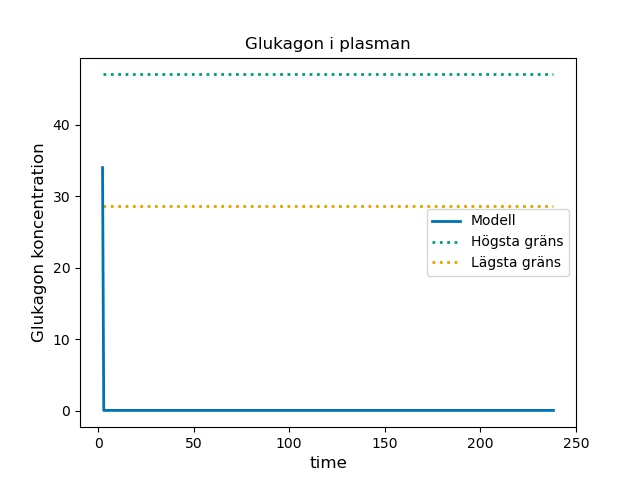
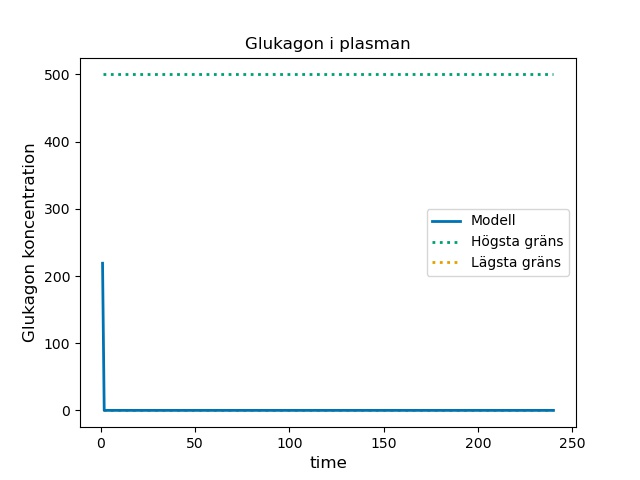
changes

diff --git a/optimering/plot_open_loop.py b/optimering/plot_open_loop.py
@@ -8,14 +8,14 @@ import scipy.integrate as integrate
 cb_palette1 = ["#999999", "#E69F00", "#56B4E9", "#009E73", "#F0E442", "#0072B2", "#D55E00", "#CC79A7"]
 
 # Hämta data
-data_G = pd.read_csv ('data_horses\Glukos_new_FFaraber.csv', sep=';')
-data_I = pd.read_csv ('data_horses\insulin_new_FFaraber.csv', sep=';')
-data_G = data_G.sort_values(by = ['tid'])
-data_I = data_I.sort_values(by = ['tid'])
+data_G = pd.read_csv ('data_horses\glukos_FF_träning.csv', sep=';')
+data_I = pd.read_csv ('data_horses\insulin_FF_träning.csv', sep=';')
+data_G = data_G.sort_values(by = ['time'])
+data_I = data_I.sort_values(by = ['time'])
 
 # Tidsvektorer
-tG_vec = data_G['tid'].values
-tI_vec = data_I['tid'].values
+tG_vec = data_G['time'].values
+tI_vec = data_I['time'].values
 
 time_span_G = [tG_vec[0], tG_vec[-1]]
 time_span_I = [tI_vec[0], tI_vec[-1]]
@@ -53,7 +53,7 @@ def open_loop(t,x,b):
     return [dG, dI, dE, dC, dM, dH] 
 
 # Inital values for concentrations and optimal values for parameters 1 start guess
-x0 = [5, 60, 34, 3, 2.5, 200]   
+x0 = [29, 67, 219, 19, 16, 1288]   
 b = [1.65196917, 1.43044967, 2.19742316e+04, 5.59792273e+01, 2.84072466e+02, 6.46691412, 1.31869684e+01, 3.09662271e+03, 4.20835897e-02, 8.93446278e-02, 3.91588623, 1.04056980, 3.81839534, 2.73503274, 6.48068508, 1.15970185e+01, 3.11515367, 1.58857288e+01]
 
 sol_qual_G = integrate.solve_ivp(open_loop, time_span_G, x0, method="LSODA", args=(b, ), t_eval = tG_vec)
@@ -67,36 +67,36 @@ M_model = sol_qual_G.y[4]
 
 # Constrains glukos (G)
 xG_coordinates = [tG_vec[0],tG_vec[-1]]
-yG1_coordinates = [4.5,4.5] #mM (human)
-yG2_coordinates = [11,11]   #mM (human)
+yG1_coordinates = [0,0] #mM (human)
+yG2_coordinates = [50,50]   #mM (human)
 
 # Constrains insulin (I)
 xI_coordinates = [tI_vec[0],tI_vec[-1]]
-yI1_coordinates = [38,38]   #pM (human)
-yI2_coordinates = [400,400] #pM (human)
+yI1_coordinates = [0,0]   #pM (human)
+yI2_coordinates = [5000,5000] #pM (human)
 
 # Constrains glucagon (E)
 xE_coordinates = [tG_vec[0],tG_vec[-1]] 
-yE1_coordinates = [28.68,28.68]  #pM (human)
-yE2_coordinates = [47.04,47.04]  #pM (human)
+yE1_coordinates = [0,0]  #pM (human)
+yE2_coordinates = [500,500]  #pM (human)
  
  # Constrains glukos i lever (C)
 xC_coordinates = [tG_vec[0],tG_vec[-1]] 
 yC1_coordinates = [0,0]  # mmol (human)
-yC2_coordinates = [8,8]  # mmol (human)
+yC2_coordinates = [100,100]  # mmol (human)
 
  # Constrains glukos i muskel (M)
 xM_coordinates = [tG_vec[0],tG_vec[-1]] 
-yM1_coordinates = [2,2]    # mmol (human)
-yM2_coordinates = [13,13]  # mmol (human)
+yM1_coordinates = [0,0]    # mmol (human)
+yM2_coordinates = [140,140]  # mmol (human)
 
 # plotta glukos
 lw = 2.0
 plot1 = plt.figure(1)
 line1, = plt.plot(xG_coordinates, yG1_coordinates, linestyle=":", linewidth=lw, color=cb_palette1[1])
 line2, = plt.plot(xG_coordinates, yG2_coordinates, linestyle=":", linewidth=lw, color=cb_palette1[3])
-line3, = plt.plot(data_G['tid'].values, data_G['konc'].values, label = 'Glukos', linestyle="-", linewidth=lw, color=cb_palette1[7])
-line4, = plt.plot(data_G['tid'].values, G_model, label = 'Glukos', linestyle="-", linewidth=lw, color=cb_palette1[5])
+line3, = plt.plot(data_G['time'].values, data_G['conc'].values, label = 'Glukos', linestyle="-", linewidth=lw, color=cb_palette1[7])
+line4, = plt.plot(data_G['time'].values, G_model, label = 'Glukos', linestyle="-", linewidth=lw, color=cb_palette1[5])
 plt.legend((line4, line3, line2, line1), ("Modell", "Data", "Högsta gräns","Lägsta gräns"))
 plt.xlabel("time", fontsize=12), plt.ylabel("Glukos koncentration", fontsize=12)
 plt.title("Glucose in plasma")
@@ -116,8 +116,8 @@ lw = 2.0
 plot1 = plt.figure(2)
 line1, = plt.plot(xI_coordinates, yI1_coordinates, linestyle=":", linewidth=lw, color=cb_palette1[1])
 line2, = plt.plot(xI_coordinates, yI2_coordinates, linestyle=":", linewidth=lw, color=cb_palette1[3])
-line3, = plt.plot(data_I['tid'].values, data_I['conc'].values, label = 'Insulin', linestyle="-", linewidth=lw, color=cb_palette1[7])
-line4, = plt.plot(data_I['tid'].values, I_model, label = 'Insulin', linestyle="-", linewidth=lw, color=cb_palette1[5])
+line3, = plt.plot(data_I['time'].values, data_I['conc'].values, label = 'Insulin', linestyle="-", linewidth=lw, color=cb_palette1[7])
+line4, = plt.plot(data_I['time'].values, I_model, label = 'Insulin', linestyle="-", linewidth=lw, color=cb_palette1[5])
 plt.legend((line4, line3, line2, line1), ("Modell", "Data", "Högsta gräns","Lägsta gräns"))
 plt.xlabel("time", fontsize=12), plt.ylabel("Insulin koncentration", fontsize=12)
 plt.title("Insulin in plasma")
@@ -137,7 +137,7 @@ lw = 2.0
 plot1 = plt.figure(3)
 line1, = plt.plot(xE_coordinates, yE1_coordinates, linestyle=":", linewidth=lw, color=cb_palette1[1])
 line2, = plt.plot(xE_coordinates, yE2_coordinates, linestyle=":", linewidth=lw, color=cb_palette1[3])
-line3, = plt.plot(data_G['tid'].values, E_model, label = 'Glucagon', linestyle="-", linewidth=lw, color=cb_palette1[5]) # Lägga till modellen
+line3, = plt.plot(data_G['time'].values, E_model, label = 'Glucagon', linestyle="-", linewidth=lw, color=cb_palette1[5]) # Lägga till modellen
 plt.legend((line3, line2, line1), ("Modell", "Högsta gräns", "Lägsta gräns"))
 plt.xlabel("time", fontsize=12), plt.ylabel("Glukagon koncentration", fontsize=12)
 plt.title("Glukagon i plasman")
@@ -157,7 +157,7 @@ lw = 2.0
 plot1 = plt.figure(4)
 line1, = plt.plot(xC_coordinates, yC1_coordinates, linestyle=":", linewidth=lw, color=cb_palette1[1])
 line2, = plt.plot(xC_coordinates, yC2_coordinates, linestyle=":", linewidth=lw, color=cb_palette1[3])
-line3, = plt.plot(data_G['tid'].values, C_model, label = 'Glukos i levern', linestyle="-", linewidth=lw, color=cb_palette1[5]) # Lägga till modellen
+line3, = plt.plot(data_G['time'].values, C_model, label = 'Glukos i levern', linestyle="-", linewidth=lw, color=cb_palette1[5]) # Lägga till modellen
 plt.legend((line3, line2, line1), ("Modell", "Högsta gräns", "Lägsta gräns"))
 plt.xlabel("time", fontsize=12), plt.ylabel("Glukos koncentration", fontsize=12)
 plt.title("Glukos i levern")
@@ -177,7 +177,7 @@ lw = 2.0
 plot1 = plt.figure(5)
 line1, = plt.plot(xM_coordinates, yM1_coordinates, linestyle=":", linewidth=lw, color=cb_palette1[1])
 line2, = plt.plot(xM_coordinates, yM2_coordinates, linestyle=":", linewidth=lw, color=cb_palette1[3])
-line3, = plt.plot(data_G['tid'].values, M_model, label = 'Glukos i muskeln', linestyle="-", linewidth=lw, color=cb_palette1[5]) # Lägga till modellen
+line3, = plt.plot(data_G['time'].values, M_model, label = 'Glukos i muskeln', linestyle="-", linewidth=lw, color=cb_palette1[5]) # Lägga till modellen
 plt.legend((line3, line2, line1), ("Modell", "Högsta gräns", "Lägsta gräns"))
 plt.xlabel("time", fontsize=12), plt.ylabel("Glukos koncentration", fontsize=12)
 plt.title("Glukos i muskeln")
